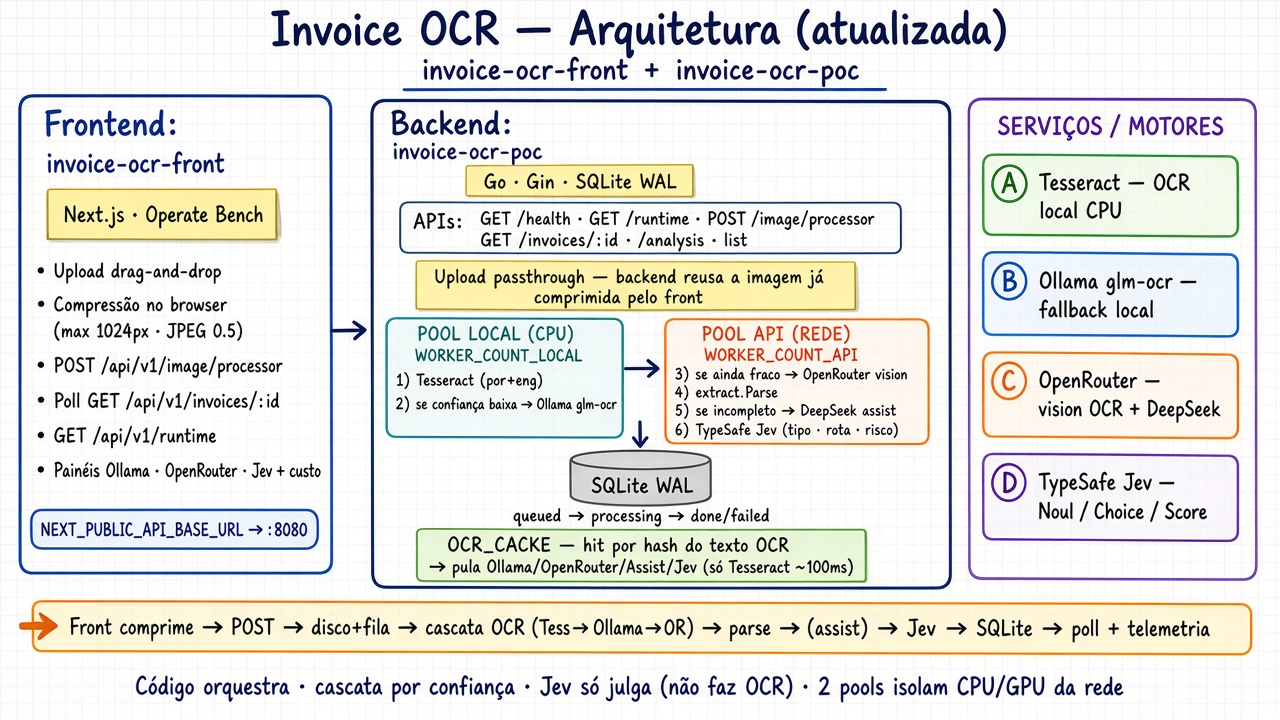
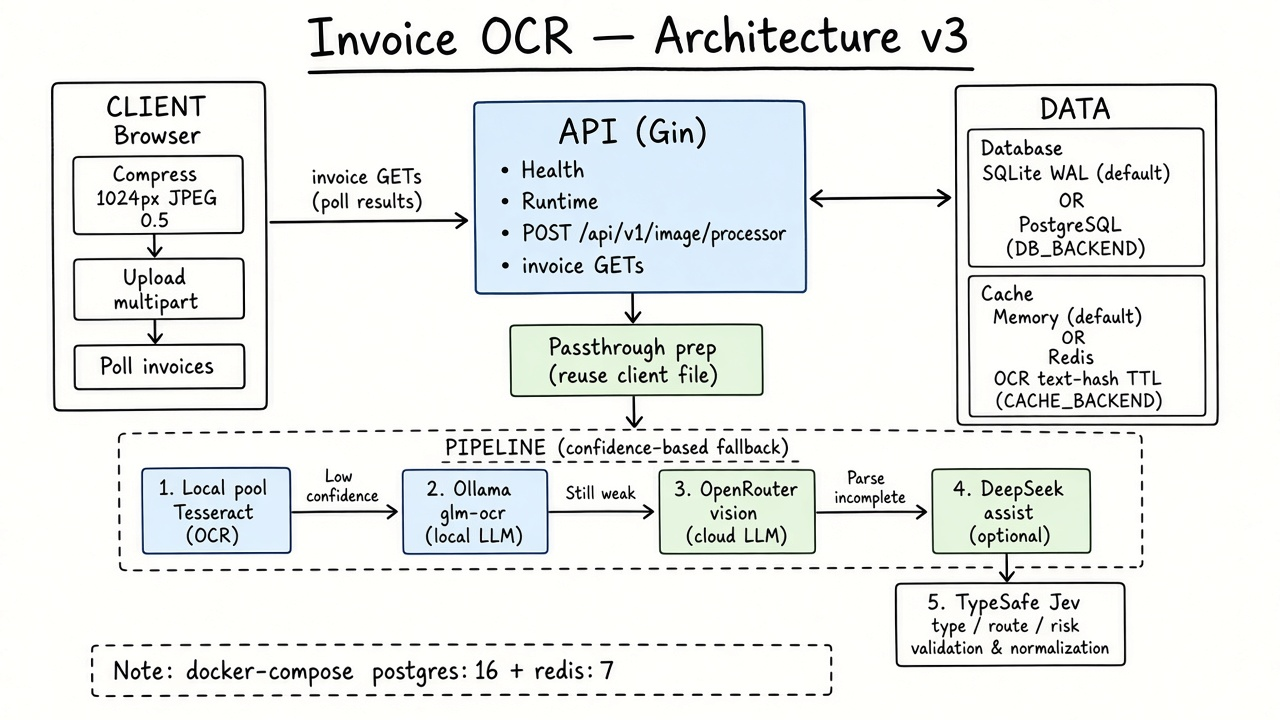
docs: refresh README with architecture v3 and add architecture diagram (PostgreSQL + Redis) (#3)

diff --git a/README.md b/README.md
@@ -1,21 +1,39 @@
 # invoice-ocr-poc
 
-Proof of concept HTTP API: upload a receipt image, enqueue processing, then poll SQLite-backed results.
+Proof of concept HTTP API: upload a receipt image, enqueue processing, then poll results from **SQLite (default)** or **PostgreSQL**.
 
-OCR is a **confidence cascade**: Tesseract, then local Ollama (`glm-ocr:latest`), then OpenRouter vision. DeepSeek (OpenRouter) optionally extracts line items when the parse is still incomplete. TypeSafe Jev judges document type, routing, and risk.
+OCR is a **confidence cascade**: Tesseract → local Ollama (`glm-ocr:latest`) → OpenRouter vision when still weak. DeepSeek (OpenRouter) optionally extracts line items when the parse is incomplete. TypeSafe Jev judges document type, routing, and risk.
+
+OCR results can be cached by **text hash** in **memory** (default) or **Redis**.
 
 ## Architecture
 
 ![Architecture](image/architecture.png)
 
-Upload returns as soon as the file is on disk and the invoice is queued. The client compresses the image; the backend **passthrough** reuses that file. A two-pool pipeline runs local OCR (Tesseract → Ollama) then API work (OpenRouter OCR fallback, optional DeepSeek assist, Jev). SQLite uses WAL with a single writer. Logs go to stdout (`zap`).
+Upload returns as soon as the file is on disk and the invoice is queued. The client compresses the image; the backend **passthrough** reuses that file.
+
+Pipeline stages:
+
+1. **Prep** — mark processing, reuse uploaded bytes
+2. **Local pool** (`WORKER_COUNT_LOCAL`) — Tesseract, then Ollama on low confidence / incomplete extract
+3. **API pool** (`WORKER_COUNT_API`) — OpenRouter vision if still weak, optional DeepSeek assist, TypeSafe Jev
+
+Persistence and cache are pluggable:
+
+| Concern | Default | Alternative |
+|--------|---------|-------------|
+| Database (`DB_BACKEND`) | `sqlite` (WAL, single writer) | `postgres` |
+| OCR cache (`CACHE_BACKEND`) | `memory` | `redis` |
+
+`docker compose up -d` starts PostgreSQL 16 and Redis 7 (optional pgAdmin / Redis Commander under the `debug` profile).
 
 ```mermaid
 flowchart LR
   client[HTTP client] --> gin[Gin API]
   gin -->|"POST /api/v1/image/processor"| svc[invoice.Service]
   svc --> disk[Upload files]
-  svc --> db[(SQLite WAL)]
+  svc --> db[(SQLite or PostgreSQL)]
+  svc --> cache[(Memory or Redis OCR cache)]
   svc --> pipe[worker.Pipeline]
   pipe --> local[local pool]
   local --> tess[Tesseract]
@@ -27,9 +45,10 @@ flowchart LR
   parse -->|incomplete| assist[DeepSeek assist]
   parse --> jev[TypeSafe Jev]
   jev --> db
+  cache -.->|hit skips API hops| jev
 ```
 
-Sharp images stop on Tesseract. `WORKER_COUNT_LOCAL` and `WORKER_COUNT_API` isolate CPU/GPU from network calls. Assist is skipped when `OPENROUTER_API_KEY` is empty or the extract is already complete.
+Sharp images stop on Tesseract. Assist is skipped when `OPENROUTER_API_KEY` is empty or the extract is already complete. A cache hit skips Ollama / OpenRouter / Assist / Jev after Tesseract (~100ms path).
 
 ## Requirements
 
@@ -38,20 +57,34 @@ Sharp images stop on Tesseract. `WORKER_COUNT_LOCAL` and `WORKER_COUNT_API` isol
 - Ollama with `glm-ocr:latest` (`ollama pull glm-ocr:latest`) for the local fallback
 - `OPENROUTER_API_KEY` — optional structured extract and Gemini OCR fallback
 - `TYPESAFE_API_KEY` — Jev
+- Optional: Docker for PostgreSQL + Redis (`docker compose up -d`)
 
 ## Run
 
 ```bash
 cp configs/.env.example configs/.env
 # set OPENROUTER_API_KEY and TYPESAFE_API_KEY
+# optional: DB_BACKEND=postgres and CACHE_BACKEND=redis after compose up
 go run ./cmd/api
 ```
 
 Config is read from `.env` or `configs/.env`.
 
-`LOG_FORMAT=text` (default, console) or `json`.
+### Database
 
-`WORKER_COUNT_LOCAL` (alias `OCR_WORKERS`) is the Tesseract/Ollama pool. `WORKER_COUNT_API` (alias `JEV_WORKERS`) is OpenRouter/Assist/Jev. `JOB_QUEUE_SIZE` is the in-memory job buffer (default 32). `POST /api/v1/image/processor` returns 503 `job queue is full` when the buffer is full; the HTTP handler does not wait for a worker.
+- `DB_BACKEND=sqlite` (default) — `SQLITE_PATH` (default `data/poc.db`)
+- `DB_BACKEND=postgres` — `PG_HOST`, `PG_PORT`, `PG_USER`, `PG_PASSWORD`, `PG_DBNAME`, `PG_SSLMODE`, pool sizes, `PG_SYNC_COMMIT`
+
+### Cache
+
+- `OCR_CACHE_ENABLED=true` (default), TTL `OCR_CACHE_TTL` (default `1h`)
+- `CACHE_BACKEND=memory` (default) or `redis` with `REDIS_ADDR`, `REDIS_PASSWORD`, `REDIS_DB`, `REDIS_POOL_SIZE`
+
+### Workers
+
+`WORKER_COUNT_LOCAL` (alias `OCR_WORKERS`) is the Tesseract/Ollama pool. `WORKER_COUNT_API` (alias `JEV_WORKERS`) is OpenRouter/Assist/Jev. `JOB_QUEUE_SIZE` is the in-memory job buffer (default 32). `POST /api/v1/image/processor` returns 503 when the buffer is full.
+
+`LOG_FORMAT=text` (default) or `json`.
 
 Set `DEBUG_PPROF=true` to expose `net/http/pprof` on `DEBUG_PPROF_ADDR` (default `127.0.0.1:6060`). It is not mounted on the public API port.
 
@@ -68,11 +101,11 @@ curl -s -X POST http://localhost:8080/api/v1/image/processor \
   -F "image=@./path/to/receipt.png;type=image/png"
 ```
 
-Flow: passthrough upload → Tesseract → Ollama if weak → OpenRouter OCR if still weak → optional DeepSeek → Jev HTTP.
+Flow: passthrough upload → Tesseract → Ollama if weak → OpenRouter OCR if still weak → optional DeepSeek → Jev HTTP. Persist to SQLite or PostgreSQL; cache hits short-circuit via memory or Redis.
 
 ## OCR Cache
 
-When `OCR_CACHE_ENABLED=true` (default), results are cached by OCR text hash. A cache hit skips Ollama, OpenRouter, Assist, and Jev entirely — only Tesseract runs (~100ms). TTL is `OCR_CACHE_TTL` (default `1h`).
+When `OCR_CACHE_ENABLED=true` (default), results are cached by OCR text hash. A cache hit skips Ollama, OpenRouter, Assist, and Jev entirely — only Tesseract runs (~100ms). TTL is `OCR_CACHE_TTL` (default `1h`). Backend is `CACHE_BACKEND` (`memory` or `redis`).
 
 ## Profiling with pprof
 
@@ -110,8 +143,6 @@ go tool trace trace.out
 ```bash
 go tool pprof -http=:8081 http://127.0.0.1:6060/debug/pprof/profile?seconds=30
 ```
-
-This opens a browser with flame graphs, top functions, and call graphs.
 
 ## Accuracy harness
 
